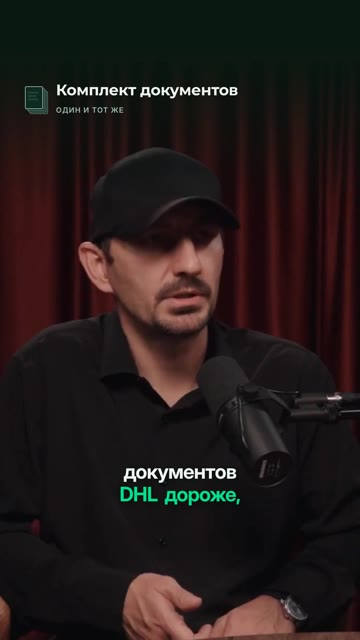
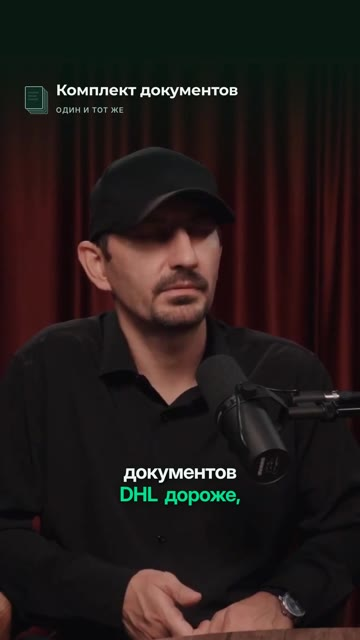
zavod: отправка — proffuchet (13.11)

diff --git a/zavod/otpravka-bscv6sc3s9/leads.js b/zavod/otpravka-bscv6sc3s9/leads.js
@@ -12,16 +12,16 @@ window.LEADS = [
   "lang": "ru",
   "avatar": "img/a_proffuchet.jpg",
   "poster": "img/proffuchet.jpg",
-  "reel": "https://www.instagram.com/reel/DfqEJBzjOjH/",
-  "clip": "«Почта России против DHL»: акты на 18 программистов, 180–210 страниц в месяц, 6 000 ₽ против 57–65 тысяч, три пропажи, «оплата происходит только, если есть документы» · 19:12–20:41 (по частям) · 48 с, их зелёный бренд (дизайн-система досье)",
+  "reel": "https://www.instagram.com/reel/DfqH4G5jj3x/",
+  "clip": "«Почта России против DHL»: акты на 18 программистов, 180–210 страниц в месяц, 6 000 ₽ против 57–65 тысяч, три пропажи, «оплата происходит только, если есть документы» · 19:12–20:41 (по частям) · 49 с, их зелёный бренд (дизайн-система досье)",
   "episode": "https://www.youtube.com/watch?v=ukYjfh-GXM0",
   "wa": "77053918172",
   "email": "bkostanay@inbox.ru",
   "ig": "proff_uchet",
   "subject": "Клип из выпуска с Айратом Мустафиным: Почта России против DHL",
   "src": "Выпуск ukYjfh-GXM0 «Международный Бизнес без иллюзий: деньги, технологии и предпринимательские решения», 29.10.2026, 1:24:04 (yt-dlp --dump-json 13.11); описание: «Ведущий - Сактаганов Даурен Манарбекович, Налоговый консультант, Профессиональный бухгалтер РК», «Гость - Айрат Мустафин, Основатель Liberum Navitas»; глава 18:56 «Почта России против DHL: как возили бумажные документы». Кто говорит — смена планов (гость в кепке, ведущий без): весь фрагмент — гость, ведущий только слушает. Сайт proffuchet.kz (curl 13.11, ссылка из «О канале»): wa.me/77053918172, tel:+77053918172, mailto:bkostanay@inbox.ru, instagram.com/proff_uchet; title «ПрофУчет — Полное бухгалтерское сопровождение», Костанай. Instagram @proff_uchet — Graph API 13.11 (ig_check.py): «БУХГАЛТЕРИЯ ИП/ТОО | КАЗАХСТАН • АУТСОРСИНГ • НАЛОГИ • ОБУЧЕНИЕ», 740 подписчиков, 167 публикаций, пост 11.11.2026, сайт wtsp.cc/77053918172 — тот же номер. «О канале» UC6HXC3fMDufcKIZZy8IKj9Q (curl 13.11): ссылки proffuchet.kz, instagram.com/proff_uchet; 2 290 подписчиков (info.json). Shorts: 1 (yt-dlp --flat-playlist /shorts 13.11). N = 6 мест — таймкоды в CLAUDE.md рилса (автосубтитры YouTube по главам, не слушаны).",
-  "check": "Пишем Даурену (ведущий, владелец ПрофУчет): WhatsApp 7 705 391 81 72 и почта bkostanay@inbox.ru — с сайта proffuchet.kz, тот же номер в bio Instagram; Instagram @proff_uchet — бизнес-аккаунт. Говорит в клипе гость Айрат Мустафин (IT-предприниматель из России); его контактов не нашли (Liberum Navitas в поиске не находится) — письма гостю нет. Блоки выпуска про криптовалюту и санкции в клип не взяты. Рез не слушан Елжаном (П1 «П1/01 Акты в Казахстан — Почта России против DHL.mp3», собрано по правилу 20 минут): швы 4.98 («документов. | Для»), 12.44 («раз. | То есть»), 14.68 (вырезано «каждый человек, ну»), 30.44 («страниц. | И, например»), 35.68 («рублей. | DHL», вырезано «угу» ведущего), 45.61 («DHL. | Оплата» — вырезан вопрос «А почему было важно документы? Потому что»). «То есть у нас было» — «у» слышат два чтения из трёх. Канал почти без Shorts — заход «у вас нет вертикалей». Согласие на публикацию фрагмента неизвестно.",
-  "text": "Даурен, здравствуйте! Собрал клип из вашего выпуска с Айратом Мустафиным: как бумажные акты на 18 программистов возили в Казахстан — Почта России за 6 000 ₽ или DHL за 57–65 тысяч. 48 секунд, только слова гостя, я ничего не дописывал.\n\nКлип: {reel}\n\nВ выпуске ещё 6 мест на такой клип. Прислать ещё один? Бесплатно."
+  "check": "Пишем Даурену (ведущий, владелец ПрофУчет): WhatsApp 7 705 391 81 72 и почта bkostanay@inbox.ru — с сайта proffuchet.kz, тот же номер в bio Instagram; Instagram @proff_uchet — бизнес-аккаунт. Говорит в клипе гость Айрат Мустафин (IT-предприниматель из России); его контактов не нашли (Liberum Navitas в поиске не находится) — письма гостю нет. Блоки выпуска про криптовалюту и санкции в клип не взяты. Рез не слушан Елжаном (П1 «П1/01 Акты в Казахстан — Почта России против DHL.mp3», собрано по правилу 20 минут): швы 5.0 («документов. | Для»), 12.84 («раз. | То есть»), 15.09 (вырезано «каждый человек, ну»), 31.74 («страниц. | И, например»), 37.08 («рублей. | DHL», вырезано «угу» ведущего), 47.00 («DHL. | Оплата» — вырезан вопрос «А почему было важно документы? Потому что»). Голос пересобран 13.11 без эха (автокорреляция на 60 мс −0.001). «То есть у нас было» — «у» слышат два чтения из трёх. Канал почти без Shorts — заход «у вас нет вертикалей». Согласие на публикацию фрагмента неизвестно.",
+  "text": "Даурен, здравствуйте! Собрал клип из вашего выпуска с Айратом Мустафиным: как бумажные акты на 18 программистов возили в Казахстан — Почта России за 6 000 ₽ или DHL за 57–65 тысяч. 49 секунд, только слова гостя, я ничего не дописывал.\n\nКлип: {reel}\n\nВ выпуске ещё 6 мест на такой клип. Прислать ещё один? Бесплатно."
 },
 {
   "id": "naran",
